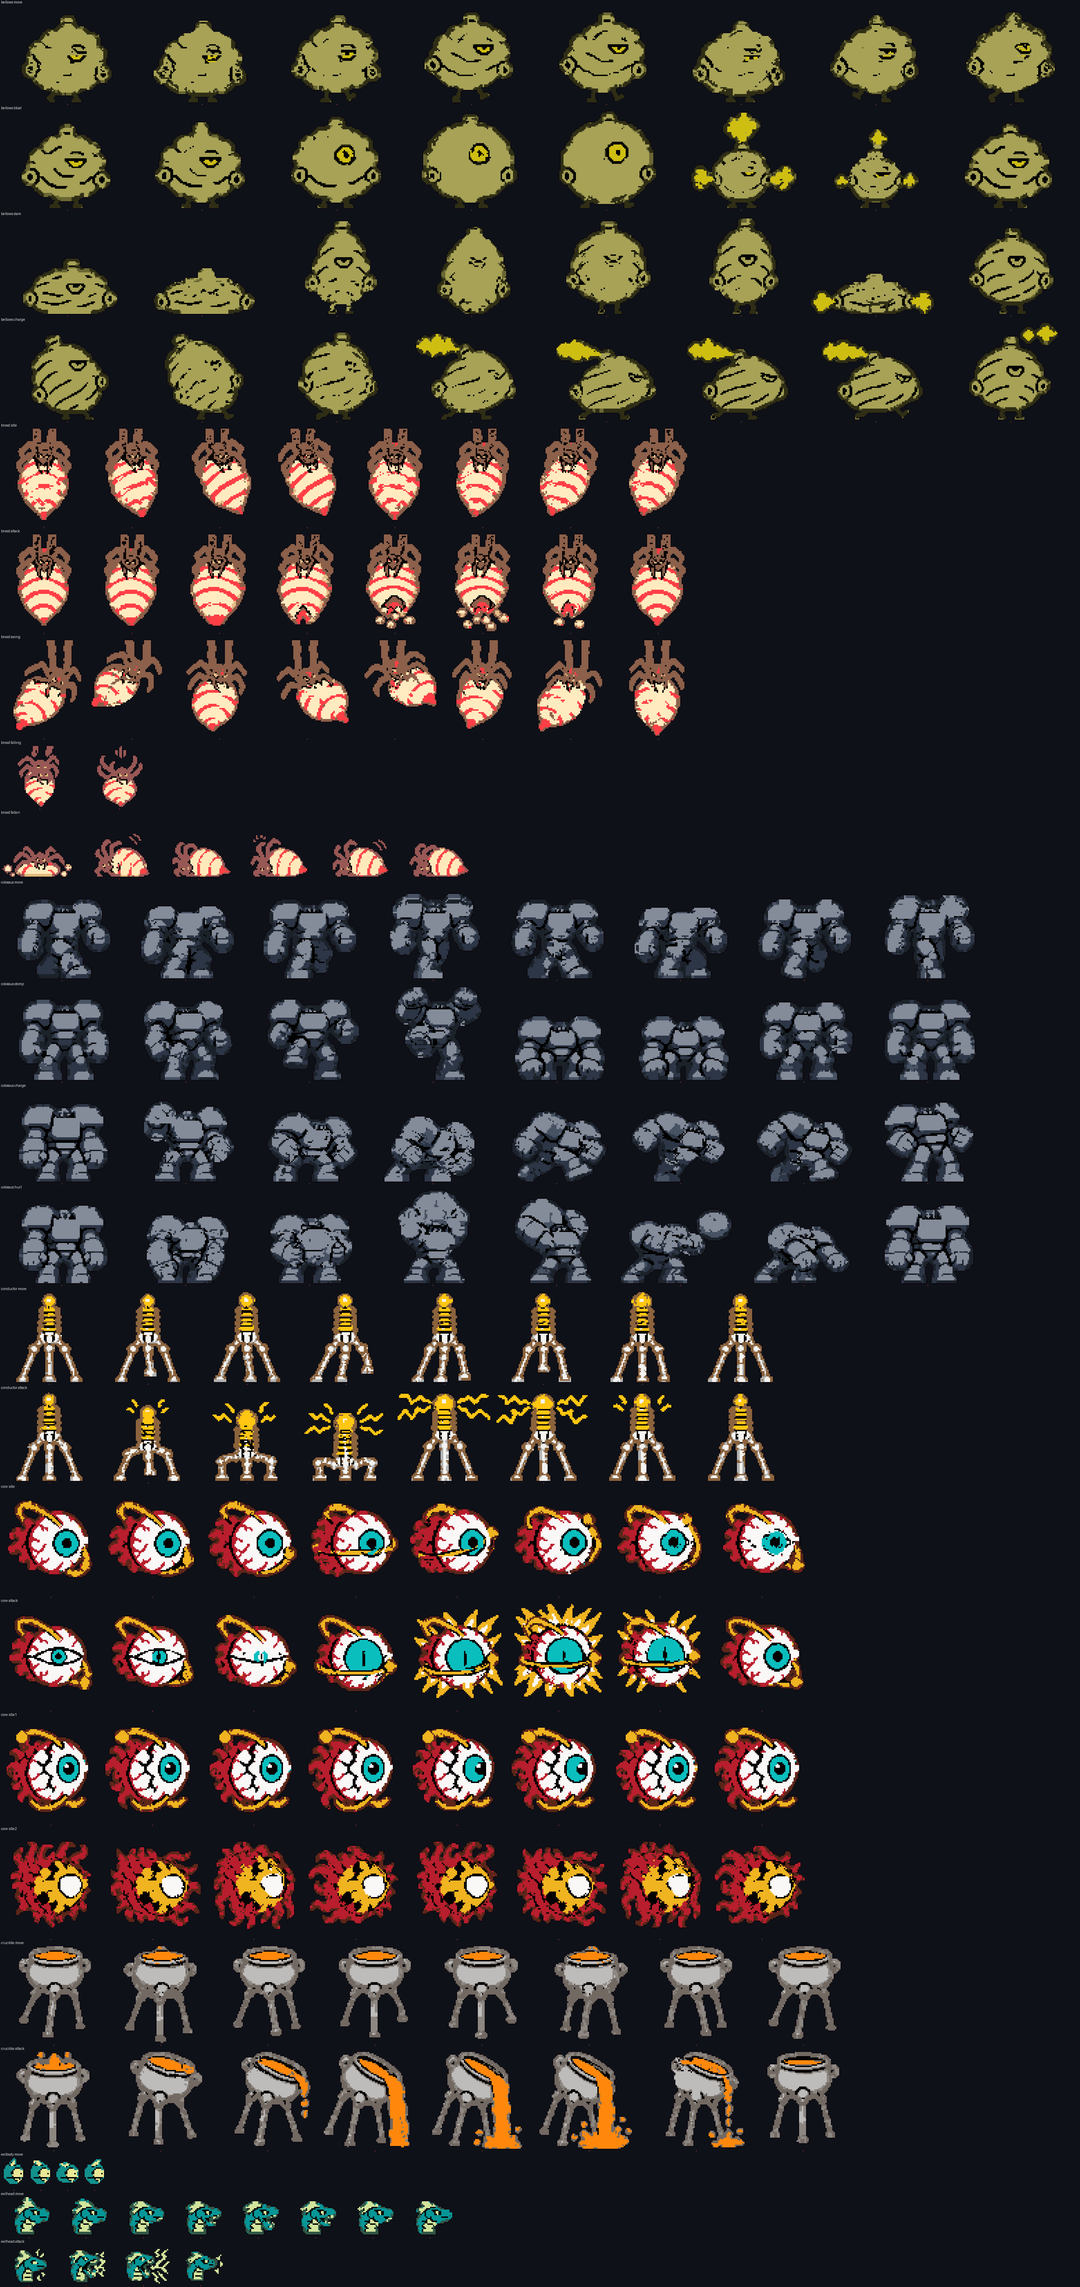
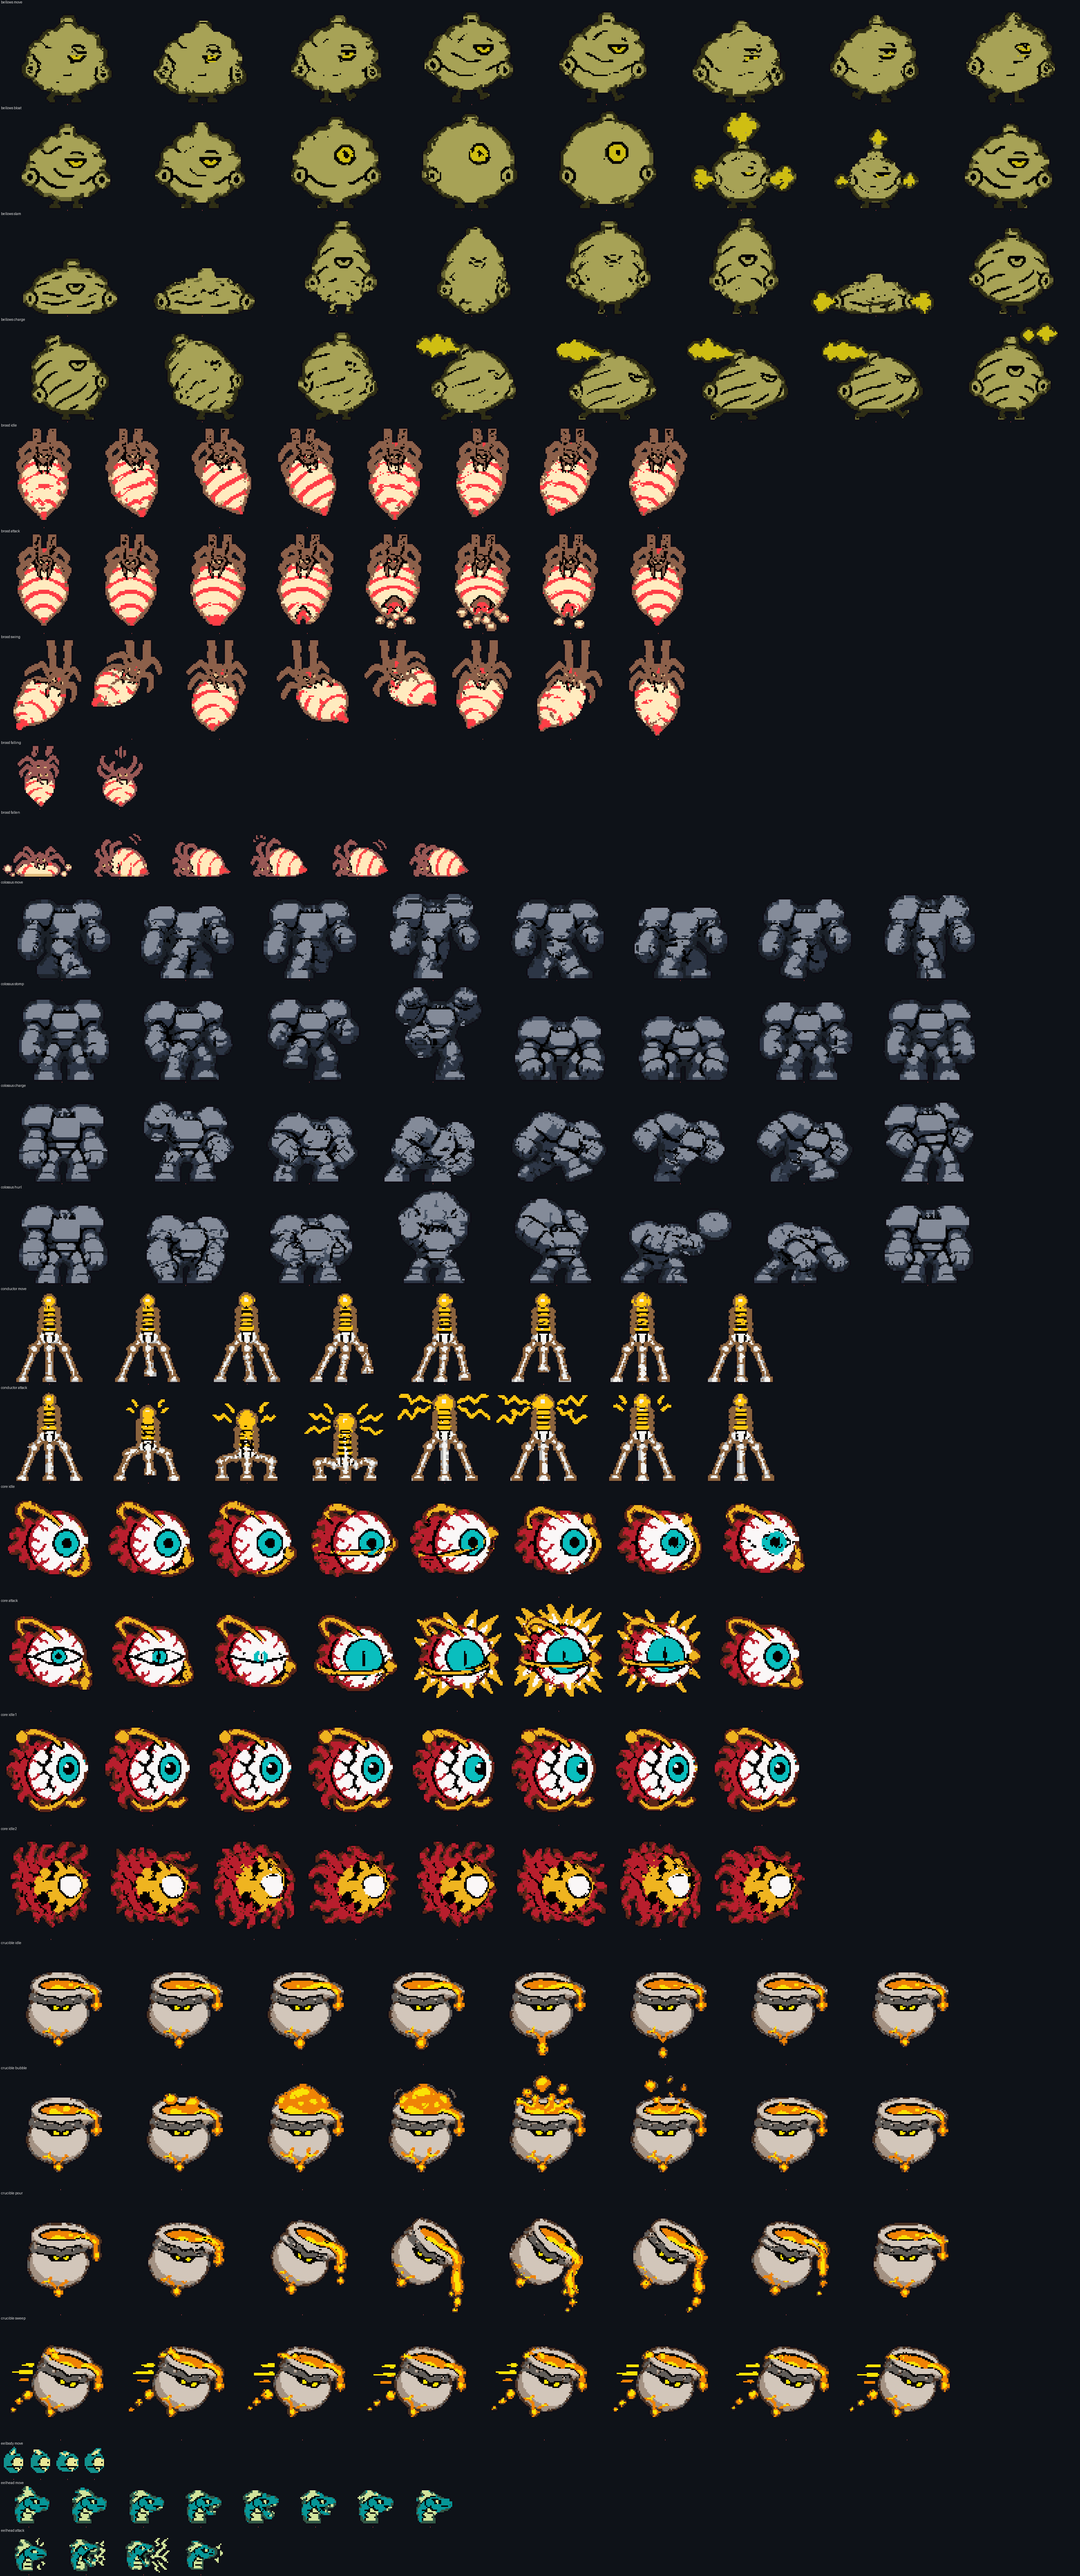
Float the Crucible as a clay cauldron with a face
The three-legged stand and the stilts drawn down to the floor are gone. The
Crucible is now a pale clay cauldron with an iron brow, yellow eyes and a
pouring spout, hovering with a slow bob and a drip of lava under it. It sags
while doused. Its clips cover idle, a boiling tell for the ladle, spatter and
drown, tipping to pour, and a leaning glide for the sweep that replaces the
stride. Lava now pours from the spout, on the side it tipped towards.

diff --git a/src/wardens.js b/src/wardens.js
@@ -44,6 +44,7 @@ const runMoves = (g, e, dt, moves, pick) => {
   }
   e.clock = (e.clock ?? 1) - dt
   const move_ = moves[e.move]
+  if (e.stage && !move_) e.stage = 'rest'
   if (e.stage === 'tell') {
     move_.telling?.(g, e, dt)
     if (e.clock > 0) return
@@ -56,7 +57,7 @@ const runMoves = (g, e, dt, moves, pick) => {
     Object.assign(e, { stage: 'rest', clock: move_.rest * (e.pace ?? 1) * (0.55 + 0.45 * (e.hp / e.maxHp)) })
   } else if (e.clock <= 0) {
     const next = pick(g, e)
-    Object.assign(e, { move: next, stage: 'tell', clock: moves[next].tell, windup: true })
+    if (moves[next]) Object.assign(e, { move: next, stage: 'tell', clock: moves[next].tell, windup: true })
   }
 }
 
@@ -338,20 +339,23 @@ const coolLava = (g, e, dt) => {
   e.cooled = e.cooled.filter(c => c.age < CRUMBLE_AFTER)
 }
 
+const SPOUT = 20
+
 const crucibleMoves = {
   pour: {
     tell: 0.9, act: 2, rest: 1.3,
+    telling: (g, e) => { e.facing = toward(centre(e).x, centre(g.player).x) },
     during: (g, e, dt) => {
       e.vx = toward(centre(e).x, centre(g.player).x) * 14
       e.x += e.vx * dt
       e.pourClock = (e.pourClock ?? 0) + dt
       if (e.pourClock < 0.09 * (e.pace ?? 1)) return
       e.pourClock = 0
-      const c = centre(e)
-      const x = cell(c.x)
+      const x = cell(centre(e).x + e.facing * SPOUT)
       const y = cell(e.y + e.h + 1)
       if (matAt(g.world, x, y) === M.EMPTY) setCell(g.world, x, y, M.LAVA)
     },
+    end: (g, e) => { e.vx = 0 },
   },
   ladle: {
     tell: 0.7, act: 0.6, rest: 1.2,
@@ -361,9 +365,9 @@ const crucibleMoves = {
       for (const spread of [-34, 0, 34]) lob(g, from, { x: them.x + spread, y: them.y }, 1.1, { lava: true })
     },
   },
-  stride: {
+  sweep: {
     tell: 0.5, act: 1.3, rest: 1,
-    start: (g, e) => { e.facing = centre(e).x < WORLD_PX / 2 ? 1 : -1 },
+    telling: (g, e) => { e.facing = centre(e).x < WORLD_PX / 2 ? 1 : -1 },
     during: (g, e, dt) => {
       e.x = Math.max(3 * BLOCK, Math.min(WORLD_PX - 3 * BLOCK - e.w, e.x + e.facing * 95 * dt))
       if (Math.random() < dt * 5) g.fireballs.push({ x: centre(e).x, y: e.y + e.h, w: 4, h: 4, vx: 0, vy: 40, age: 0, friendly: false, fromWarden: true, lava: true })
@@ -393,8 +397,17 @@ const crucibleMoves = {
   },
 }
 
+const SAG = 2 * BLOCK
+
+const hover = (g, e, dt) => {
+  e.home ??= e.y
+  const height = e.home + Math.sin(g.time * 1.7) * 2.5 + (e.stun > 0 ? SAG : 0)
+  e.y += (height - e.y) * Math.min(1, dt * 3)
+}
+
 const crucible = (g, e, dt) => {
   if (e.asleep) return
+  hover(g, e, dt)
   coolLava(g, e, dt)
   if (e.stage === 'rest' || e.stage === undefined) {
     const dx = centre(g.player).x - centre(e).x
@@ -410,7 +423,7 @@ const crucible = (g, e, dt) => {
     burst(g, centre(e).x, centre(e).y, 'pale', 12)
   }
   keepInside(e)
-  runMoves(g, e, dt, crucibleMoves, () => bag(e, ['pour', 'ladle', 'stride', ...lateFor(e)]))
+  runMoves(g, e, dt, crucibleMoves, () => bag(e, ['pour', 'ladle', 'sweep', ...lateFor(e)]))
 }
 
 const puffSteam = (g, x, y) => setCell(g.world, x, y, M.STEAM, 2)
@@ -956,7 +969,7 @@ const orbit = (g, e) => {
 Object.assign(ENEMY_DEFS, {
   bellows: { size: [56, 54], hp: 240, value: 800, heavy: true, free: true, warden: true, weakTo: ['FIRE'] },
   colossus: { size: [50, 54], hp: 270, value: 800, heavy: true, free: true, magnetic: true, warden: true, weakTo: ['CRUSHED'] },
-  crucible: { size: [24, 18], hp: 200, value: 800, heavy: true, free: true, fireproof: true, warden: true },
+  crucible: { size: [36, 34], hp: 200, value: 800, heavy: true, free: true, fireproof: true, warden: true },
   eel: { size: [20, 16], hp: 210, value: 800, heavy: true, free: true, insulated: true, warden: true },
   eelseg: { size: [12, 12], hp: 9999, value: 0, heavy: true, free: true, insulated: true, part: true },
   brood: { size: [34, 40], hp: 210, value: 800, heavy: true, free: true, warden: true, weakTo: ['FIRE'] },

diff --git a/src/creatures.js b/src/creatures.js
@@ -1,6 +1,5 @@
 import { SPRITES, paintFrames, creatureClip } from './sprites.js'
 import { artKind, artTop } from './cast.js'
-import { WORLD_PX, solidAt } from './physics.js'
 import { setPixelSource } from './fx.js'
 import { remainsOf } from './lives.js'
 import { TUNING } from './config.js'
@@ -52,7 +51,7 @@ const SPECIALS = {
   core: e => e.phase > 0 && `idle${e.phase}`,
 }
 
-const MOVE_CLIPS = { bellows: { spark: 'bloat' }, crucible: { stride: 'move' }, eel: { leap: 'move' } }
+const MOVE_CLIPS = { bellows: { spark: 'bloat' }, crucible: { ladle: 'bubble', spatter: 'bubble', drown: 'bubble' }, eel: { leap: 'move' } }
 
 const FRIENDLY_REACH = 34
 
@@ -292,21 +291,6 @@ const stalk = (ctx, e, top) => {
 }
 
 const BIG_FLASH = 0.4
-const STILT_FEET = [-0.42, 0, 0.42]
-
-const drawStilts = (ctx, g, e, art, at, y) => {
-  const bottom = y + art.height - 1
-  const middle = at + art.width / 2
-  for (const spread of STILT_FEET) {
-    const x = Math.round(middle + spread * art.width)
-    let floor = bottom
-    while (floor < WORLD_PX && !solidAt(g.world, x, floor + 1)) floor += 1
-    ctx.fillStyle = '#26262a'
-    ctx.fillRect(x - 1, bottom, 3, floor - bottom + 1)
-    ctx.fillStyle = '#8a8a90'
-    ctx.fillRect(x, bottom, 1, floor - bottom + 1)
-  }
-}
 
 const drawOne = (ctx, g, e) => {
   const time = g.time
@@ -329,7 +313,6 @@ const drawOne = (ctx, g, e) => {
   if (e.elite || e.ally) ring(ctx, art, at, y, pose, e.ally ? GAS : ELITE_COLOURS[e.elite])
   stamp(ctx, art, at, y, pose)
   ctx.globalAlpha = 1
-  if (e.kind === 'crucible') drawStilts(ctx, g, e, art, at, y)
   const overlay = e.flash > 0 ? '#ffffff' : telegraphColour(e, time)
   if (overlay) {
     ctx.globalAlpha = e.warden ? BIG_FLASH : 1

diff --git a/src/cast.js b/src/cast.js
@@ -4,14 +4,14 @@ const ART = {
   nest: [16, 24], mimic: [22, 16], gasbag: [15, 24], tick: [10, 6], pillbug: [20, 12], stilt: [27, 27], snapweed: [12, 26],
   scrapper: [20, 24], dripper: [12, 20], shade: [20, 24], urchin: [21, 20], coil: [20, 26], lantern: [24, 21],
   mole: [22, 24], hermit: [17, 22], miner: [22, 22],
-  bellows: [66, 65], colossus: [69, 59], crucible: [54, 68], eel: [28, 26], eelseg: [16, 19], brood: [43, 65],
+  bellows: [66, 65], colossus: [69, 59], crucible: [57, 57], eel: [28, 26], eelseg: [16, 19], brood: [43, 65],
   conductor: [48, 66], core: [64, 54],
 }
 
 const ANCHORS = {
   fish: 'free', spore: 'free', bat: 'free', jelly: 'free', emberbat: 'free', gasbag: 'free', puffer: 'free', lantern: 'free',
-  urchin: 'free', shade: 'free', gnat: 'free', core: 'free', eel: 'free', eelseg: 'free', orbit: 'free',
-  snapweed: 'hang', dripper: 'hang', brood: 'hang', crucible: 'hang', lamp: 'hang', battery: 'hang', tank: 'hang', carboy: 'hang', ladle: 'hang', sandbag: 'hang', turret: 'wall',
+  urchin: 'free', shade: 'free', gnat: 'free', core: 'free', eel: 'free', eelseg: 'free', orbit: 'free', crucible: 'free',
+  snapweed: 'hang', dripper: 'hang', brood: 'hang', lamp: 'hang', battery: 'hang', tank: 'hang', carboy: 'hang', ladle: 'hang', sandbag: 'hang', turret: 'wall',
 }
 
 const ART_ALIAS = { eel: 'eelhead', eelseg: 'eelbody' }

diff --git a/src/matter.js b/src/matter.js
@@ -724,7 +724,7 @@ export const FOE_MATTER = {
   tick: 'chip', pillbug: 'chip', gnat: 'feather', stilt: 'chip', snapweed: 'splinter', scrapper: 'scrap', dripper: 'goo', shade: 'ink',
   urchin: 'chip', coil: 'scrap', puffer: 'puff', lantern: 'crystal', lamp: 'scrap', battery: 'scrap', tank: 'scrap', carboy: 'shard',
   ladle: 'scrap', sandbag: 'clod', mole: 'gib', hermit: 'gib', miner: 'gib', orbit: 'gib',
-  bellows: 'scrap', colossus: 'chip', crucible: 'scrap', eel: 'gib', eelseg: 'gib', brood: 'gib', conductor: 'scrap', core: 'crystal',
+  bellows: 'scrap', colossus: 'chip', crucible: 'chip', eel: 'gib', eelseg: 'gib', brood: 'gib', conductor: 'scrap', core: 'crystal',
 }
 
 let pixelSource = () => []

diff --git a/art/anim.py b/art/anim.py
@@ -300,7 +300,9 @@ ANIMS = {
     'colossus': spec(GROUND, 66, 5,
                      pair('colossus', 0, ('move', 8, dict(fps=7, **WALK)), ('stomp', 8, dict(loop=False, hold=3, fps=12))),
                      pair('colossus2', 0, ('charge', 8, dict(loop=False, hold=2, fps=11, sustain=(4, 6))), ('hurl', 8, dict(loop=False, hold=4, fps=9))), value=0.74),
-    'crucible': spec(HANG, 66, 5, pair('crucible', 0, ('move', 8, dict(fps=7)), ('attack', 8, dict(loop=False, hold=1, fps=8, sustain=(3, 5))))),
+    'crucible': spec(FREE, 54, 7,
+                     pair('crucible', 0, ('idle', 8, dict(fps=6)), ('bubble', 8, dict(loop=False, hold=3, fps=10))),
+                     pair('crucible2', 0, ('pour', 8, dict(loop=False, hold=2, fps=8, sustain=(3, 5))), ('sweep', 8, dict(fps=10)))),
     'eelhead': spec(FREE, 26, 4, pair('eel', 0, ('move', 8, dict(fps=7)), ('attack', 4, dict(loop=False, hold=0, fps=8, sustain=(1, 2))))),
     'eelbody': spec(FREE, 18, 3, [clip('eel', 'move', 12, 4, fps=8)]),
     'brood': spec(HANG, 66, 5,
